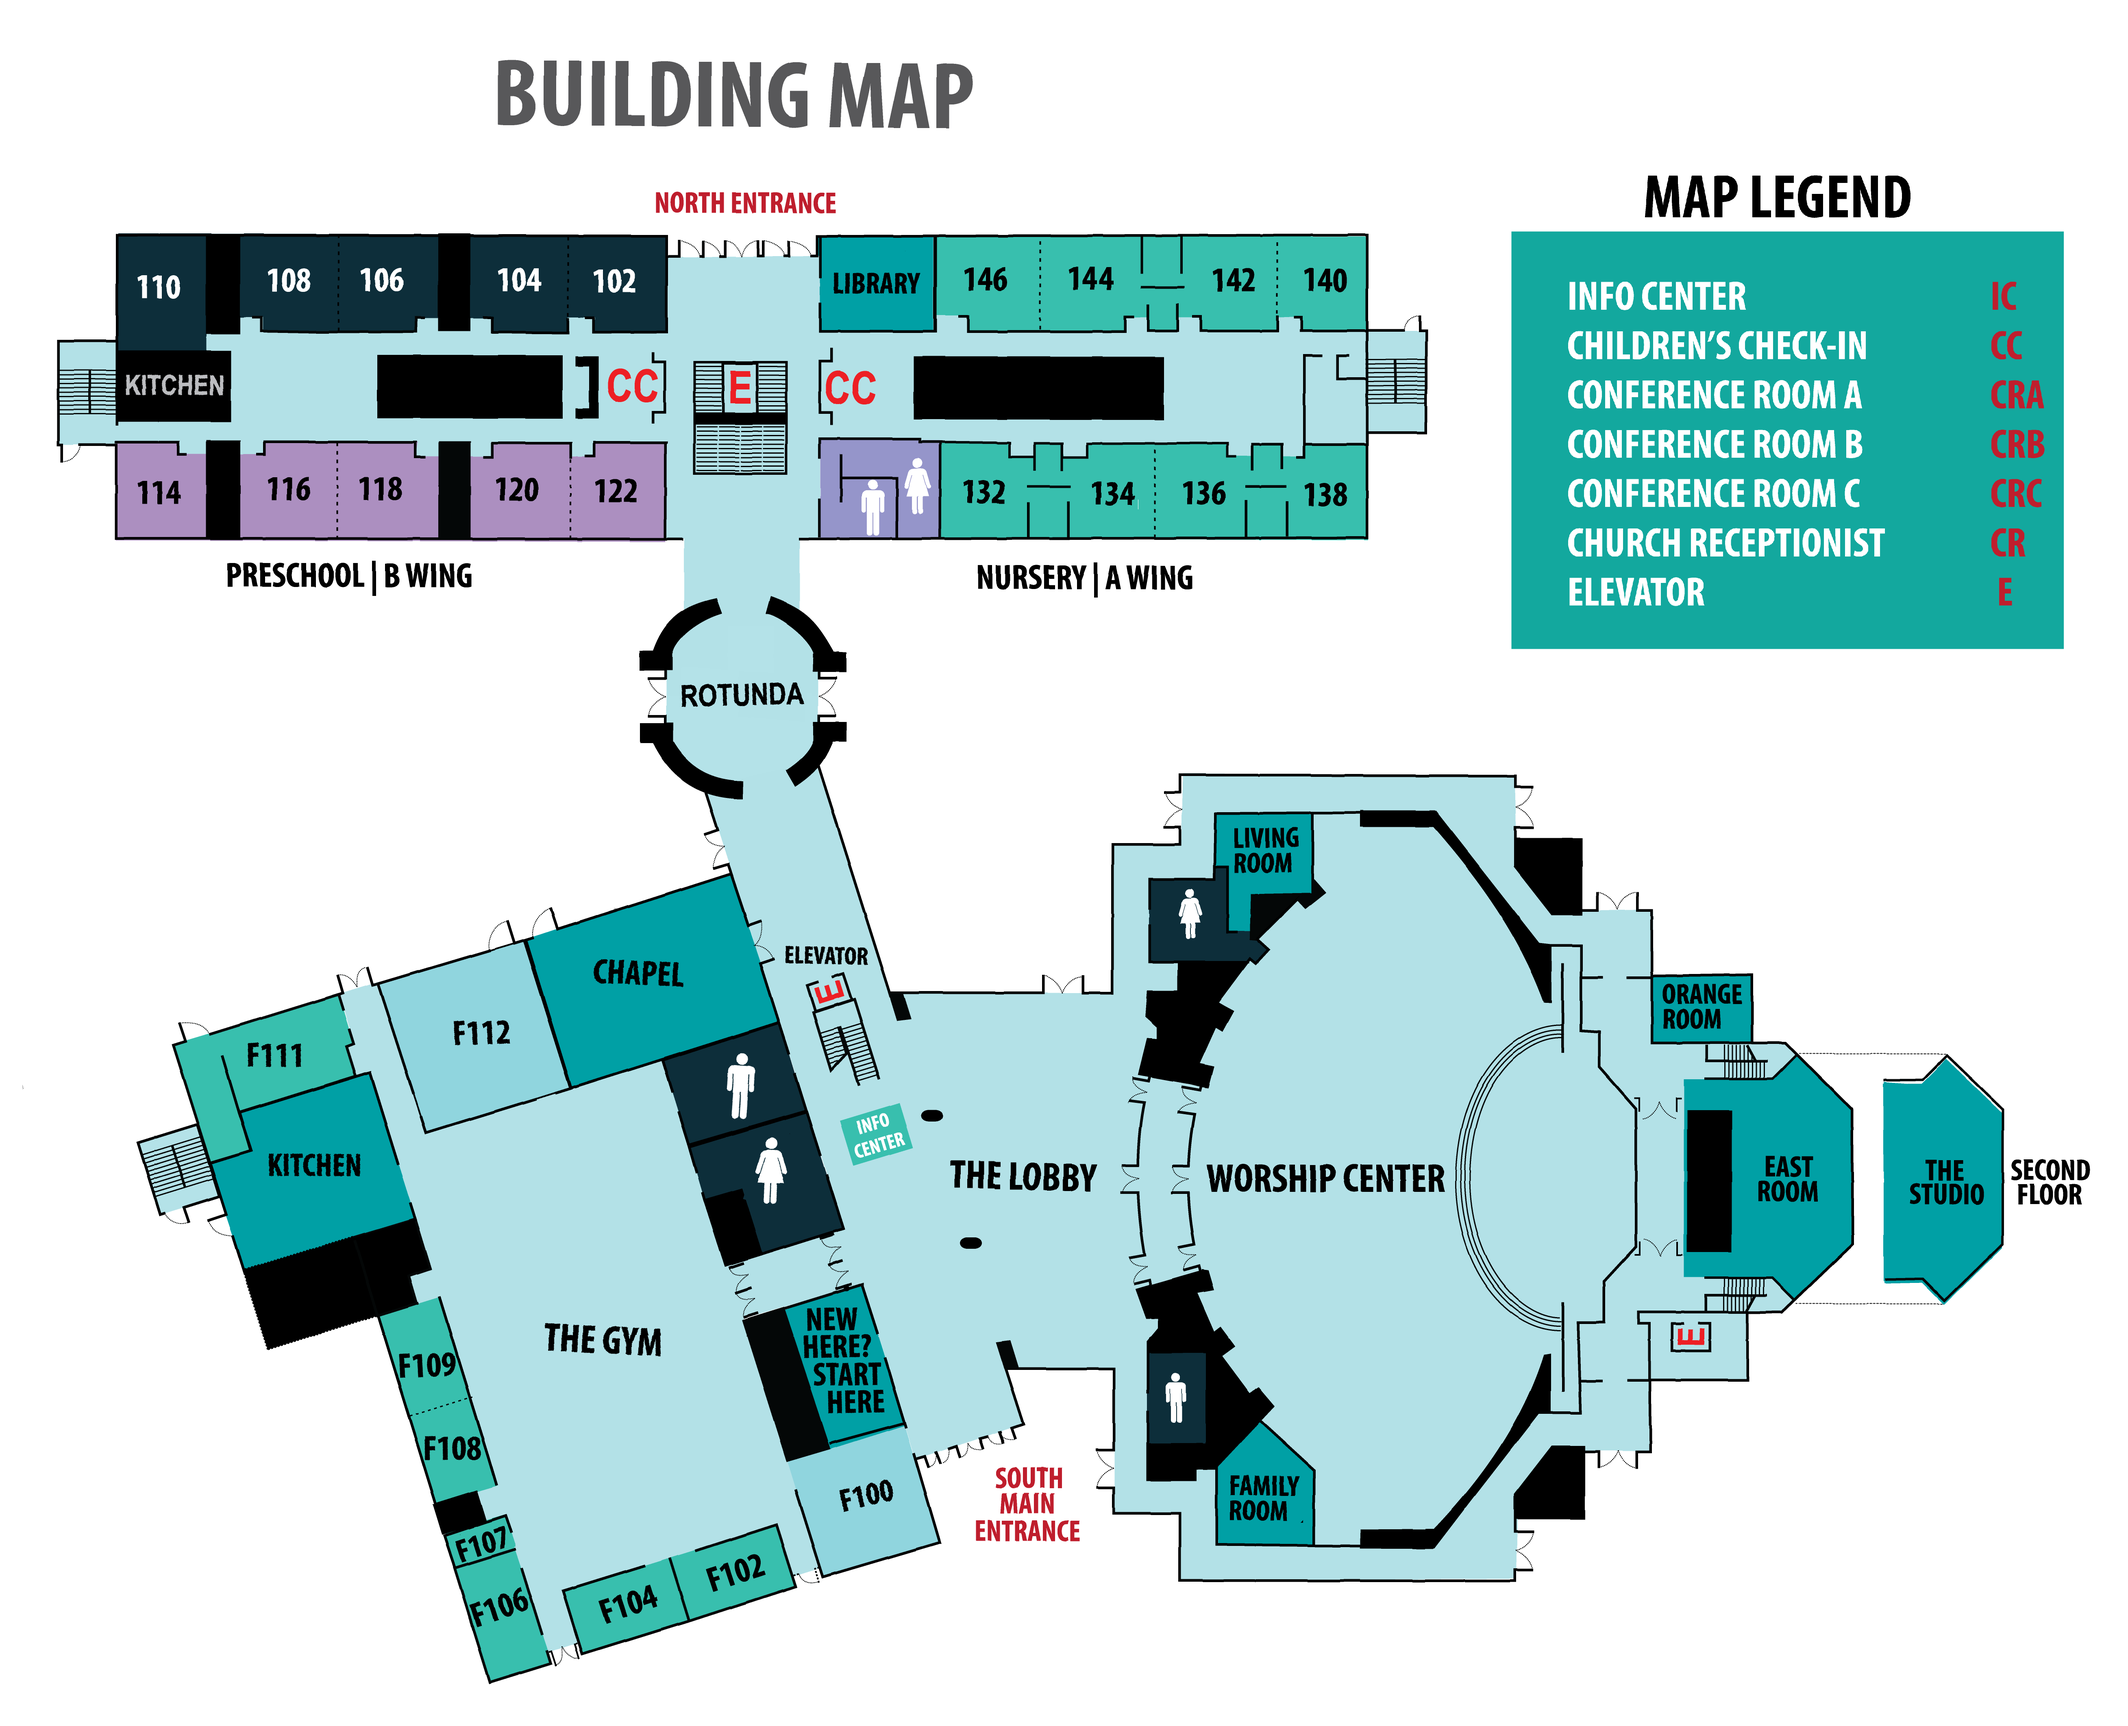
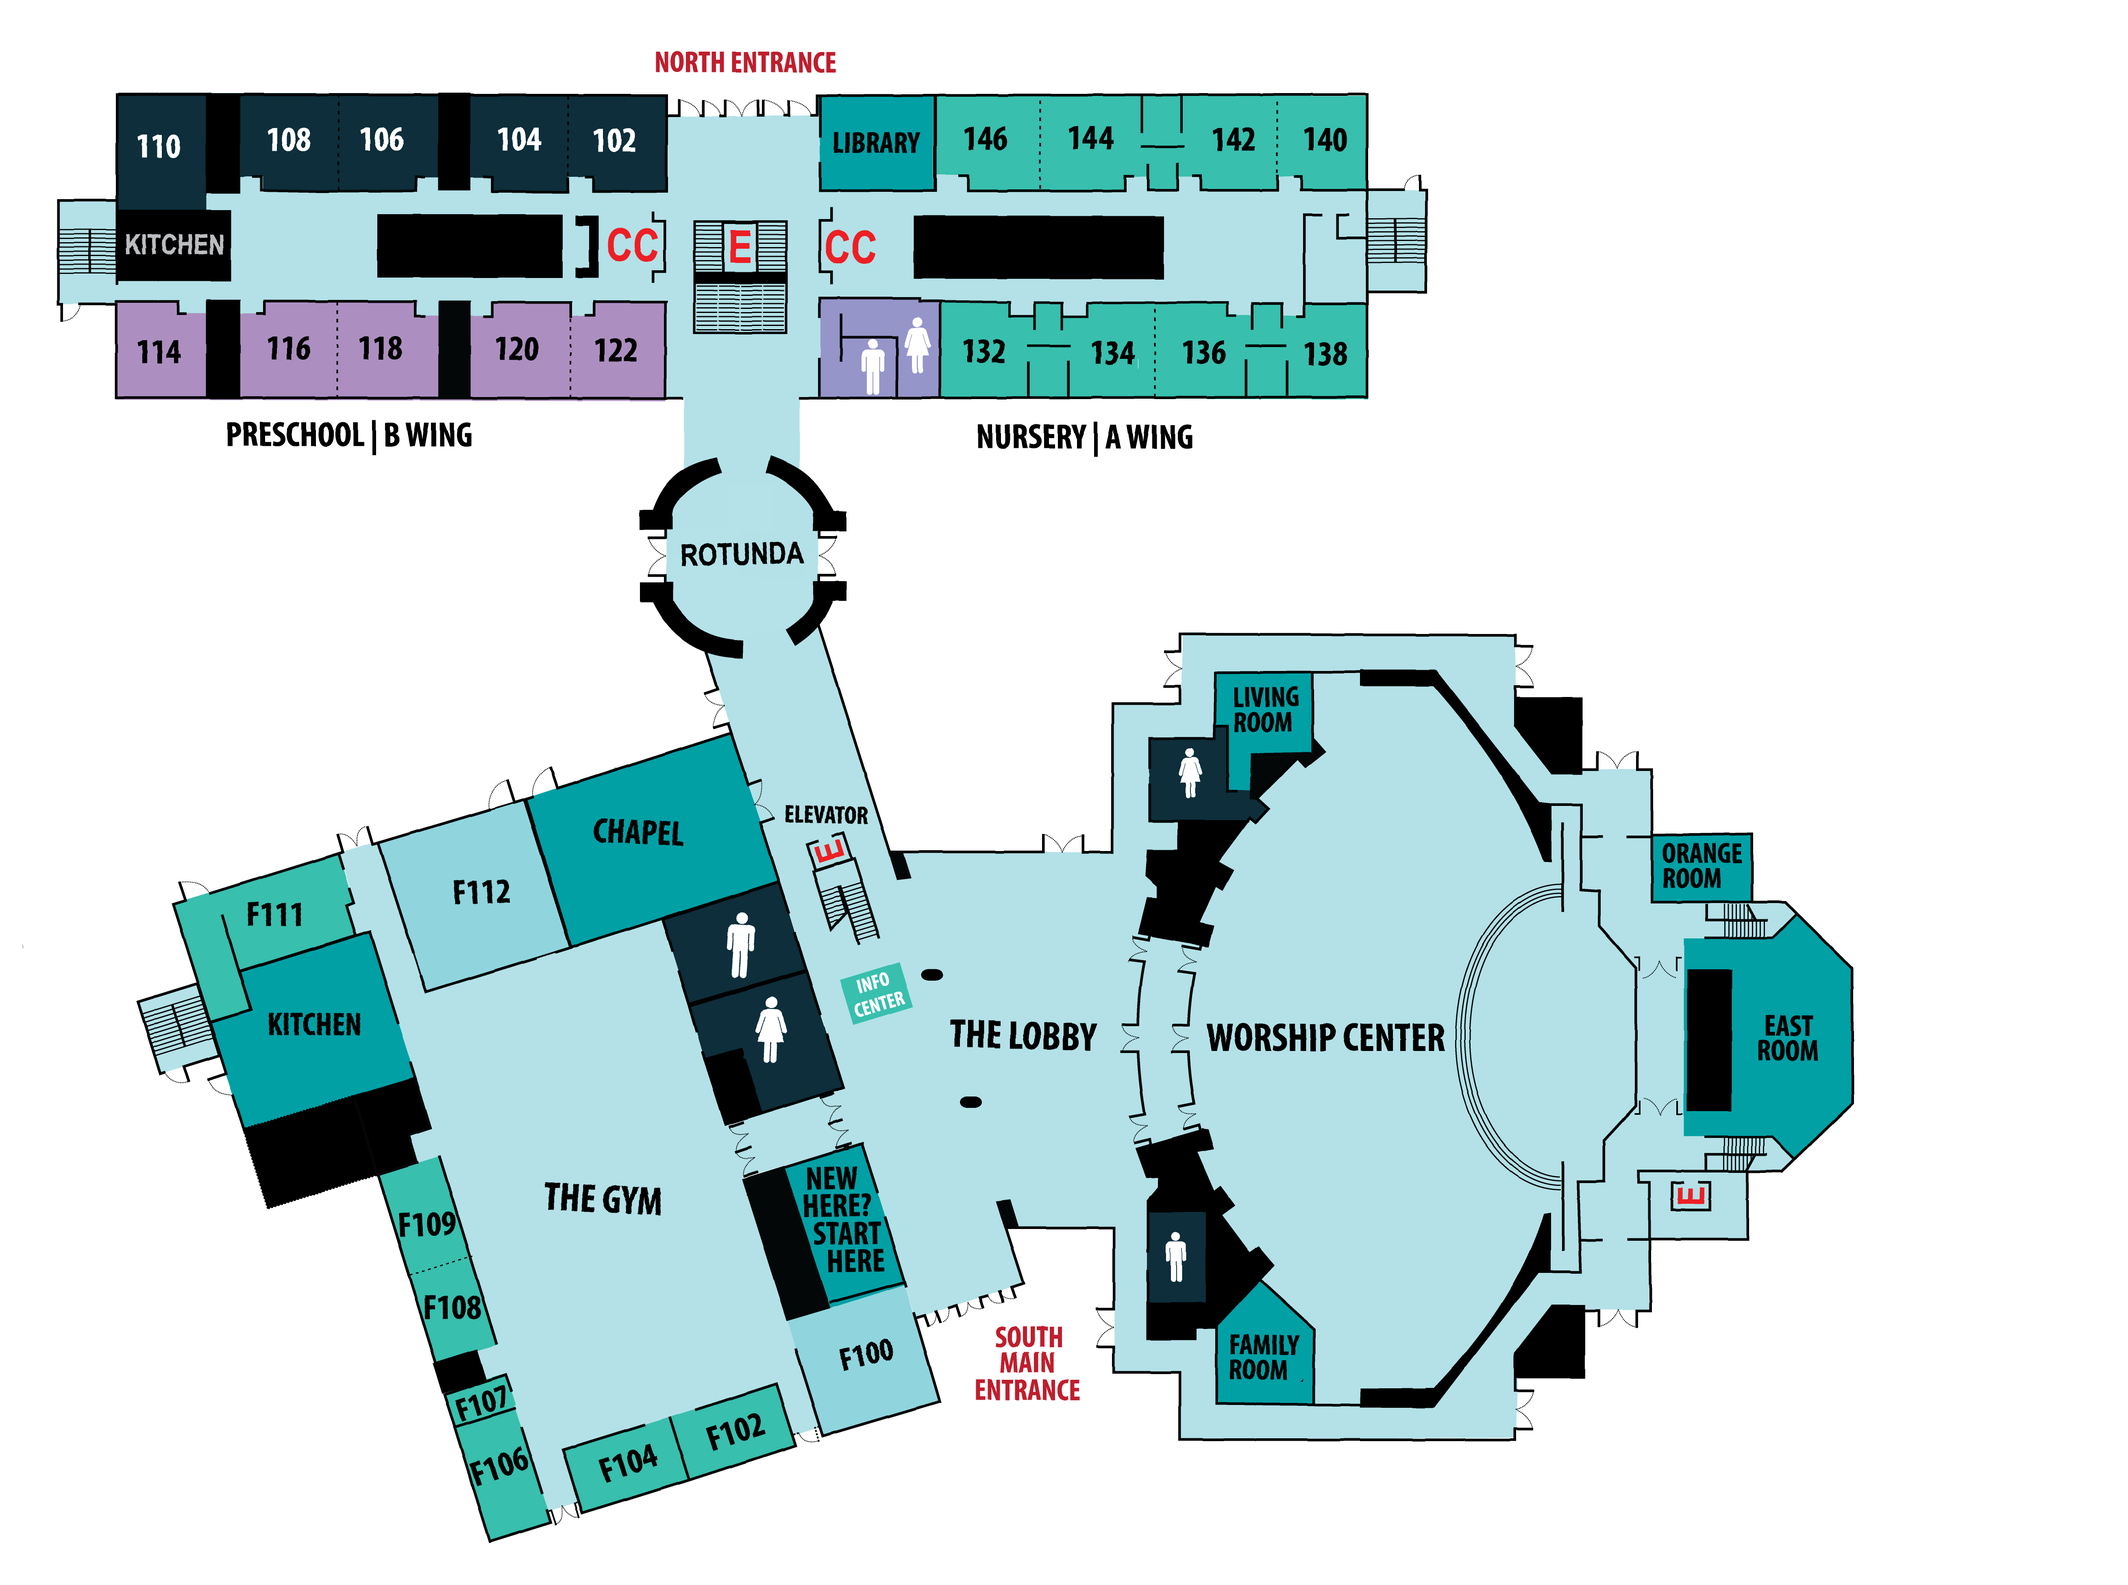
Map: new 5234x3900 PNGs, updated YAH, bigger legend
- Refresh map-1st.png and map-2nd.png from External Files (5234x3900,
  green baked-in legend removed from the image)
- Update .map-frame aspect-ratio + fitMapFrame aspect to 5234/3900
- You Are Here marker moved to pixel (2300, 3000) -> 43.9% / 76.9%
- "YOU ARE HERE" label now sits ABOVE the red K circle instead of below
  (kiosk index.html and map-phone.html)
- Map Legend sized up ~2x for kiosk readability: 26px title, 22px items,
  28px abbreviation column, larger padding and min/max widths

diff --git a/index.html b/index.html
@@ -444,7 +444,7 @@
      so percentage-positioned overlays line up exactly with the image. */
   .map-frame {
     position: relative;
-    aspect-ratio: 5234 / 4246;
+    aspect-ratio: 5234 / 3900;
   }
   .map-layer {
     position: absolute;
@@ -472,6 +472,19 @@
     pointer-events: none;
     z-index: 3;
   }
+  /* "YOU ARE HERE" label sits ABOVE the K circle. */
+  .you-here__label {
+    background: #fff;
+    color: var(--accent-red);
+    font-weight: 700;
+    font-family: "Open Sans";
+    font-size: 11px;
+    letter-spacing: 0.5px;
+    padding: 3px 8px;
+    border-radius: 4px;
+    box-shadow: 0 2px 6px rgba(0, 0, 0, 0.2);
+    white-space: nowrap;
+  }
   .you-here__dot {
     width: 48px; height: 48px;
     background: var(--accent-red);
@@ -485,56 +498,45 @@
     box-shadow: 0 4px 14px rgba(0, 0, 0, 0.3);
     animation: pulse 1.6s ease-in-out infinite;
   }
-  .you-here__label {
-    background: #fff;
-    color: var(--accent-red);
-    font-weight: 700;
-    font-family: "Open Sans";
-    font-size: 11px;
-    letter-spacing: 0.5px;
-    padding: 3px 8px;
-    border-radius: 4px;
-    box-shadow: 0 2px 6px rgba(0, 0, 0, 0.2);
-    white-space: nowrap;
-  }
   @keyframes pulse {
     0%, 100% { transform: scale(1); box-shadow: 0 4px 14px rgba(0, 0, 0, 0.3); }
     50%      { transform: scale(1.08); box-shadow: 0 4px 18px rgba(157, 28, 48, 0.5); }
   }
 
-  /* HTML Map Legend — overlays top-right of the map, never blurs. */
+  /* HTML Map Legend — overlays top-right of the map, never blurs.
+     Sized ~2x the original for kiosk readability. */
   .map-legend {
     position: absolute;
-    top: 14px;
-    right: 14px;
+    top: 20px;
+    right: 20px;
     background: rgba(255, 255, 255, 0.96);
     border: 1px solid #e5e7eb;
-    border-radius: 10px;
-    padding: 12px 14px;
-    box-shadow: 0 4px 14px rgba(0, 0, 0, 0.08);
+    border-radius: 14px;
+    padding: 22px 26px;
+    box-shadow: 0 6px 20px rgba(0, 0, 0, 0.1);
     z-index: 4;
-    min-width: 160px;
-    max-width: 220px;
+    min-width: 320px;
+    max-width: 440px;
   }
   .map-legend__title {
     font-family: "Alfa Slab One", Georgia, serif;
-    font-size: 13px;
+    font-size: 26px;
     color: var(--deep-teal);
-    margin-bottom: 6px;
+    margin-bottom: 12px;
     letter-spacing: 0.3px;
   }
-  .map-legend__list { display: grid; gap: 3px; }
+  .map-legend__list { display: grid; gap: 6px; }
   .map-legend__item {
-    font-size: 12px;
+    font-size: 22px;
     color: var(--gray);
-    line-height: 1.3;
-    display: flex; gap: 8px;
+    line-height: 1.35;
+    display: flex; gap: 16px;
   }
   .map-legend__abbr {
     font-family: "Open Sans";
     font-weight: 700;
     color: var(--deep-teal);
-    min-width: 34px;
+    min-width: 68px;
   }
   .wing-class-list {
     display: flex; flex-direction: column; gap: 8px;
@@ -1057,11 +1059,11 @@
           <img class="map-layer map-layer--1st" src="map-1st.png" alt="First Colony 1st floor map"/>
           <img class="map-layer map-layer--2nd" src="map-2nd.png" alt="First Colony 2nd floor overlay"/>
 
-          <!-- Lobby kiosk You Are Here: pixel (2258, 3410) in 5234x4246 image
-               = 43.1% left, 80.3% top. positionYouAreHere() writes these. -->
+          <!-- Lobby kiosk You Are Here: pixel (2300, 3000) in 5234x3900 image
+               = 43.9% left, 76.9% top. positionYouAreHere() writes these. -->
           <div class="you-here" id="youHere">
-            <div class="you-here__dot">K</div>
             <div class="you-here__label">YOU ARE HERE</div>
+            <div class="you-here__dot">K</div>
           </div>
         </div>
 
@@ -1327,12 +1329,12 @@ function renderMapPhoneQR() {
 function positionYouAreHere() {
   const el = document.getElementById('youHere');
   if (!el) return;
-  const IMG_W = 5234, IMG_H = 4246;
+  const IMG_W = 5234, IMG_H = 3900;
   let px, py;
   if (KIOSK_LOCATION === 'childrens-wing') {
-    px = 3000; py = 1800;   // placeholder — tune to A/B corridor spot
+    px = 3000; py = 1600;   // placeholder — tune to A/B corridor spot
   } else {
-    px = 2258; py = 3410;   // Lobby kiosk — south main entrance
+    px = 2300; py = 3000;   // Lobby kiosk — south main entrance (43.9% / 76.9%)
   }
   el.style.left = (px / IMG_W * 100).toFixed(3) + '%';
   el.style.top  = (py / IMG_H * 100).toFixed(3) + '%';
@@ -1351,7 +1353,7 @@ function fitMapFrame() {
   const sw = stage.clientWidth - padX;
   const sh = stage.clientHeight - padY;
   if (sw <= 0 || sh <= 0) return;
-  const aspect = 5234 / 4246;
+  const aspect = 5234 / 3900;
   let w, h;
   if (sw / sh > aspect) { h = sh; w = h * aspect; }
   else                  { w = sw; h = w / aspect; }

diff --git a/map-phone.html b/map-phone.html
@@ -95,12 +95,13 @@
 </header>
 
 <div class="map-container">
-  <svg viewBox="0 0 5234 4246" preserveAspectRatio="xMidYMid meet" xmlns="http://www.w3.org/2000/svg">
-    <image href="map-1st.png" x="0" y="0" width="5234" height="4246"/>
+  <svg viewBox="0 0 5234 3900" preserveAspectRatio="xMidYMid meet" xmlns="http://www.w3.org/2000/svg">
+    <image href="map-1st.png" x="0" y="0" width="5234" height="3900"/>
     <g id="youAreHere" class="you-here-pulse">
-      <circle id="yahCircle" cx="1200" cy="2400" r="110" fill="#9d1c30" stroke="#fff" stroke-width="14"/>
-      <text id="yahK" x="1200" y="2443" text-anchor="middle" font-size="115" font-weight="700" fill="#fff" font-family="Alfa Slab One, Georgia, serif">K</text>
-      <text id="yahLabel" x="1200" y="2600" text-anchor="middle" font-size="72" font-weight="700" fill="#9d1c30" font-family="Open Sans, sans-serif">YOU ARE HERE</text>
+      <!-- "YOU ARE HERE" label sits ABOVE the K circle. -->
+      <text id="yahLabel" x="2300" y="2830" text-anchor="middle" font-size="72" font-weight="700" fill="#9d1c30" font-family="Open Sans, sans-serif">YOU ARE HERE</text>
+      <circle id="yahCircle" cx="2300" cy="3000" r="110" fill="#9d1c30" stroke="#fff" stroke-width="14"/>
+      <text id="yahK" x="2300" y="3043" text-anchor="middle" font-size="115" font-weight="700" fill="#fff" font-family="Alfa Slab One, Georgia, serif">K</text>
     </g>
   </svg>
 </div>
@@ -115,11 +116,11 @@
 const params = new URLSearchParams(location.search);
 const loc = params.get('loc') || 'lobby';
 
-// Coords in map-1st.png coordinate space (5234 x 4246). Placeholder — Dan
-// will tune once the map is on-screen.
+// Coords in map-1st.png coordinate space (5234 x 3900).
+// Lobby: (2300, 3000). Children's wing is a placeholder until Dan tunes.
 const positions = {
-  lobby:            { cx: 1200, cy: 2400, label: 'Lobby (South Entrance)' },
-  'childrens-wing': { cx: 3000, cy: 1800, label: "Children's Wing" }
+  lobby:            { cx: 2300, cy: 3000, label: 'Lobby (South Entrance)' },
+  'childrens-wing': { cx: 3000, cy: 1600, label: "Children's Wing" }
 };
 
 const pos = positions[loc] || positions.lobby;
@@ -128,8 +129,9 @@ document.getElementById('yahCircle').setAttribute('cx', pos.cx);
 document.getElementById('yahCircle').setAttribute('cy', pos.cy);
 document.getElementById('yahK').setAttribute('x', pos.cx);
 document.getElementById('yahK').setAttribute('y', pos.cy + 43);
+// Label sits ABOVE the circle.
 document.getElementById('yahLabel').setAttribute('x', pos.cx);
-document.getElementById('yahLabel').setAttribute('y', pos.cy + 200);
+document.getElementById('yahLabel').setAttribute('y', pos.cy - 170);
 document.getElementById('locLabel').textContent = pos.label;
 </script>
 </body>
